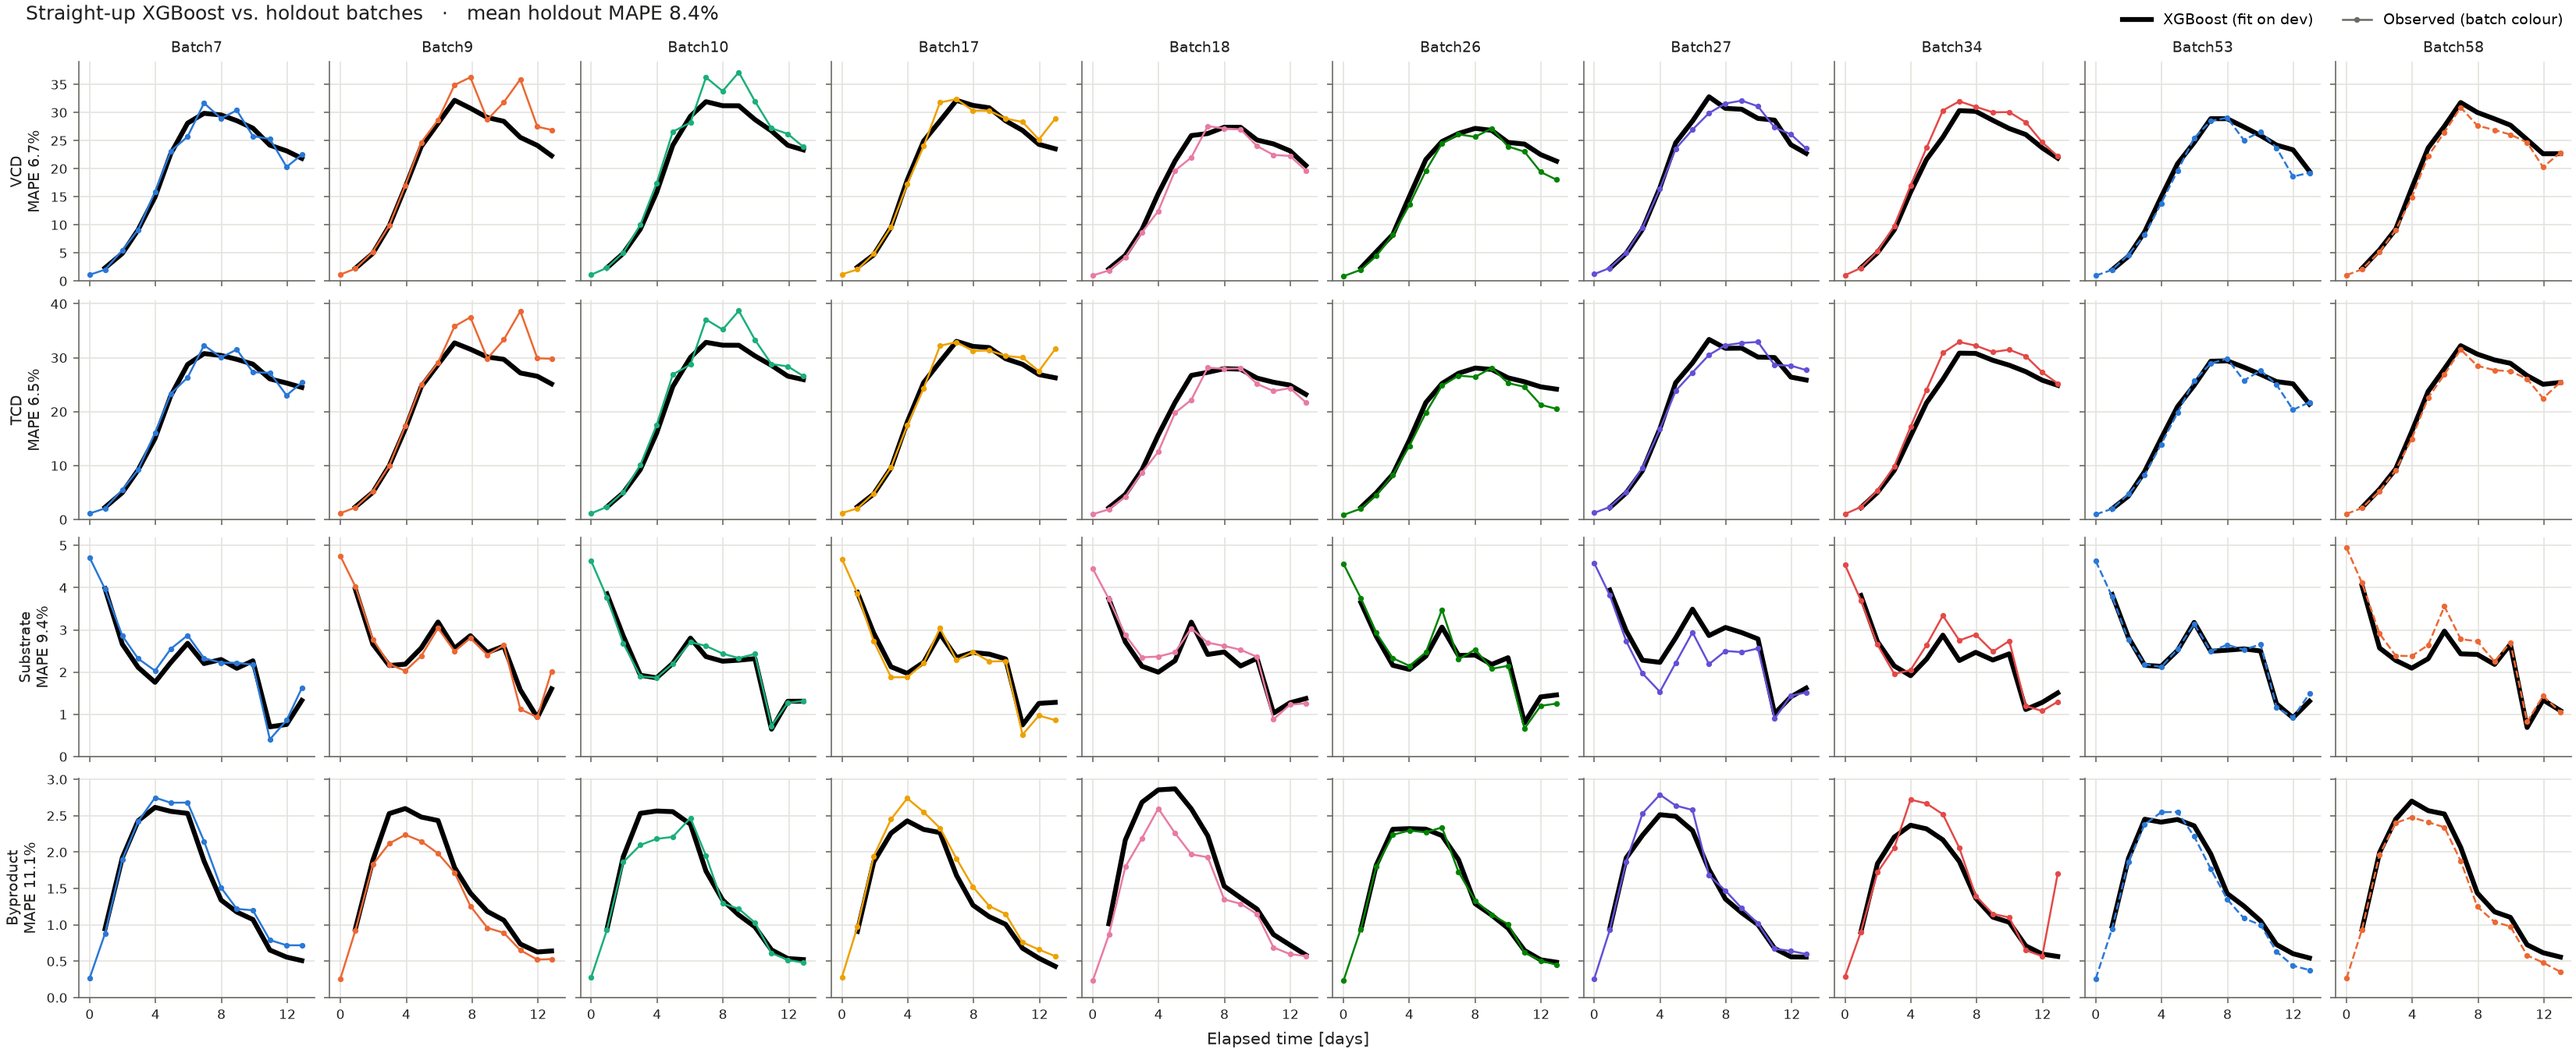
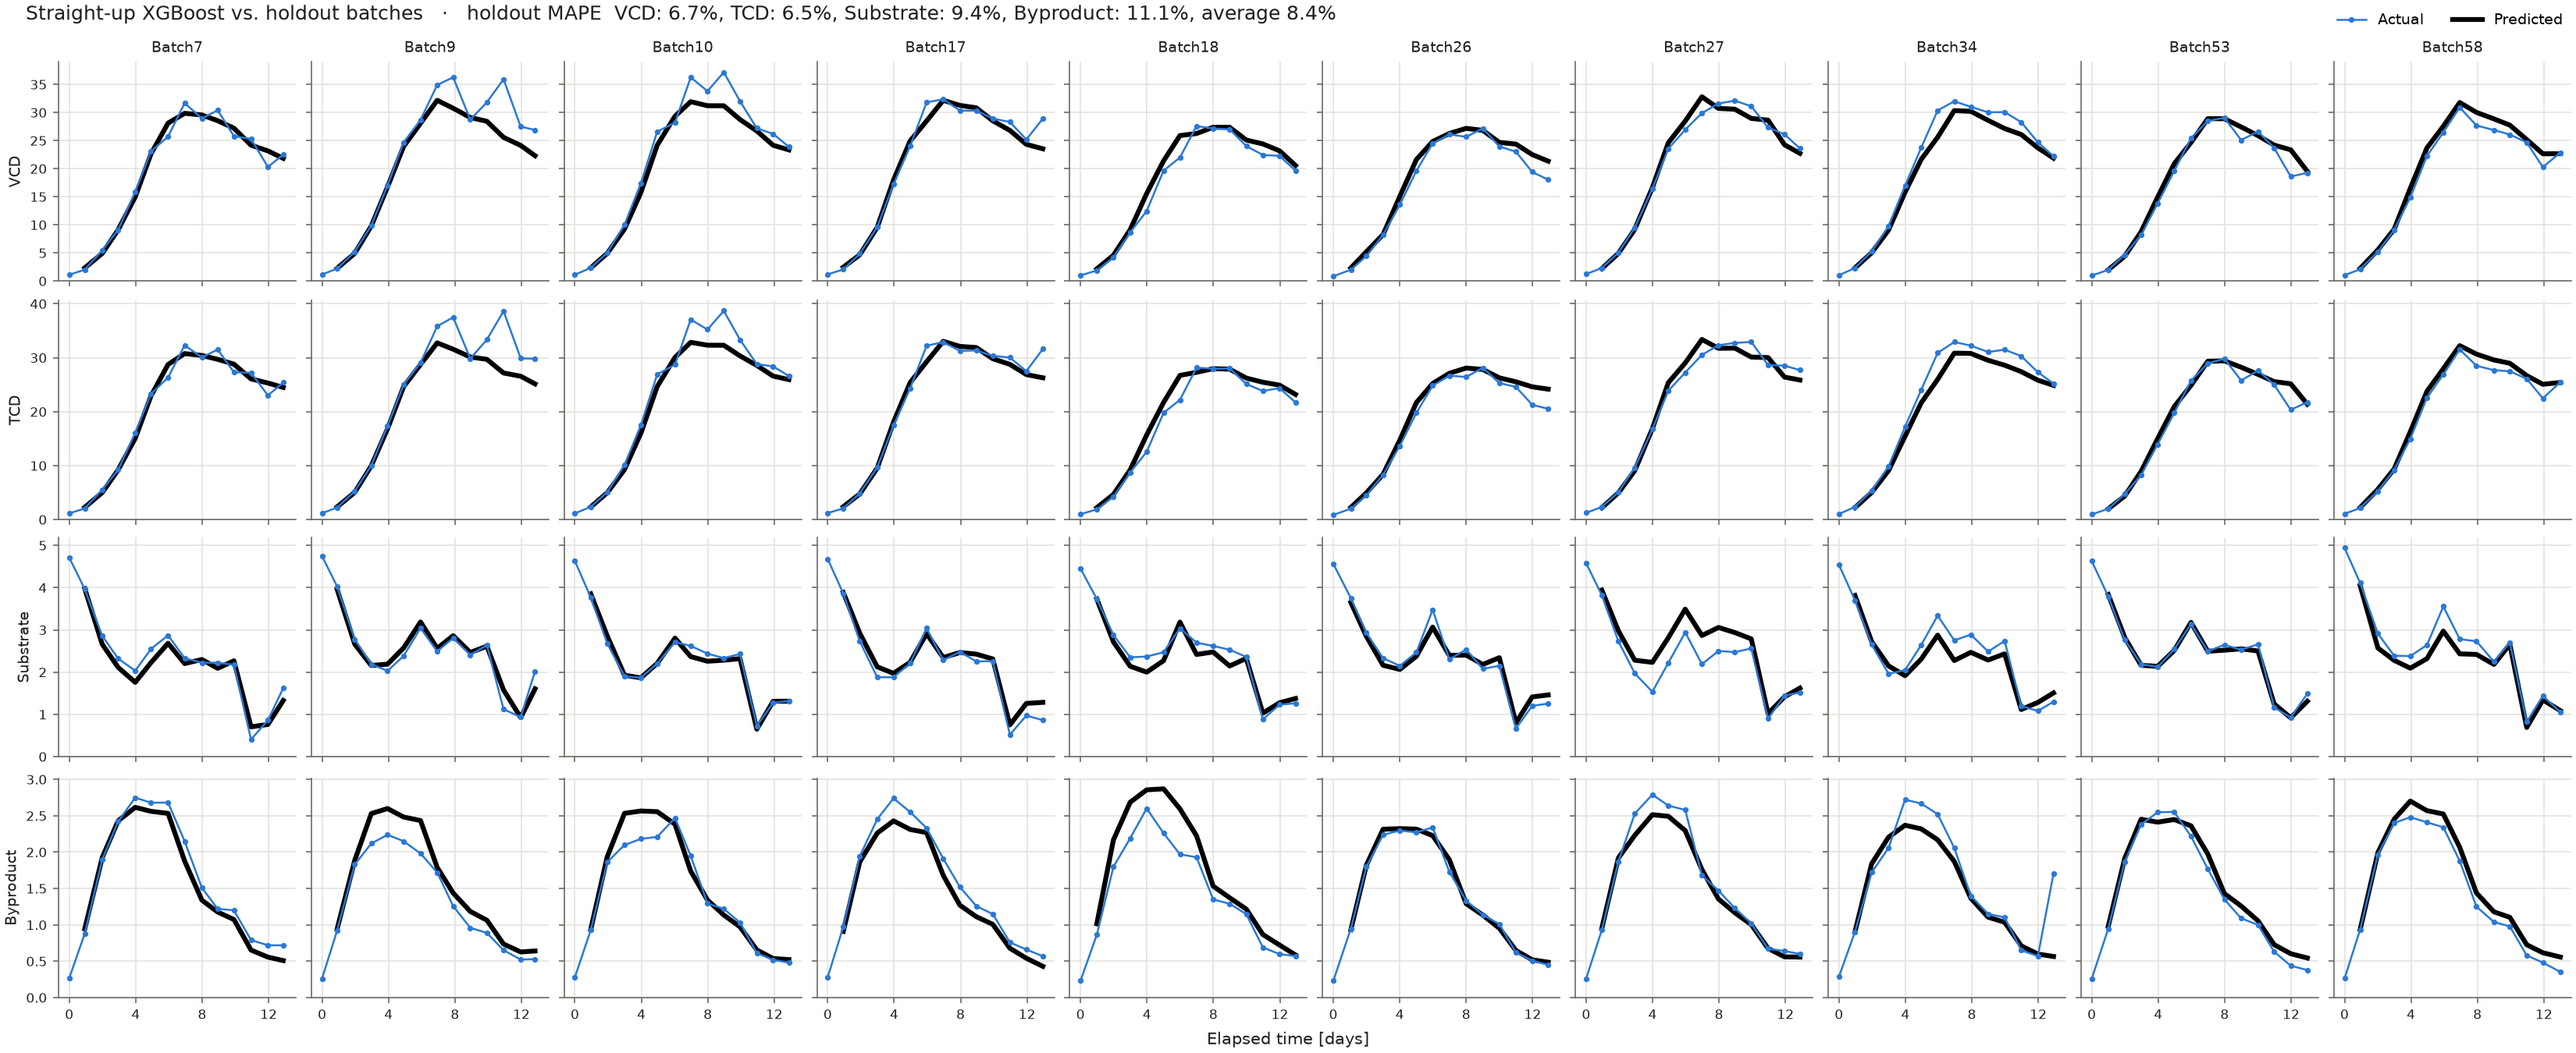
Unify holdout figures and enforce holdout isolation
- All holdout figures (constant null, per-day null, raw XGBoost) use the same
  per-batch grid: variables as rows (shared x), one column per holdout batch,
  actual in blue, predicted in black, legend "Actual" / "Predicted".
- Figure titles break the holdout MAPE down per variable
  (VCD, TCD, Substrate, Byproduct) plus the average.
- train.holdout_check(): single entry point that fits a fresh clone on dev
  batches only and scores on holdout; errors if a batch is in both.
- Test: for all models, replacing holdout labels changes no prediction, and
  shuffling holdout features only shuffles the predictions (never used to fit).

diff --git a/bioreactor_decoding/bioreactor_decoding/plots.py b/bioreactor_decoding/bioreactor_decoding/plots.py
@@ -1,4 +1,9 @@
-"""Holdout reality-check plots: observed holdout trajectories vs. a model fitted on dev only."""
+"""Holdout reality-check plots: actual holdout trajectories vs. a model fitted on dev only.
+
+Every figure is a grid of variables (rows, shared x axis) x holdout batches (columns): the
+actual measurements in blue, the model's prediction for that batch in black. Models are
+fitted via `holdout_check`, which uses dev batches only.
+"""
 
 from pathlib import Path
 
@@ -10,91 +15,18 @@ import typer
 
 from bioreactor_decoding.config import FIGURES_DIR
 from bioreactor_decoding.dataset import TARGETS, load_tables
-from bioreactor_decoding.modeling.models import (
-    ConstantNullModel,
-    PerDayNullModel,
-    challenge_score,
-)
-from bioreactor_decoding.modeling.train import labelled_data, make_xgb_raw
+from bioreactor_decoding.modeling.models import ConstantNullModel, PerDayNullModel
+from bioreactor_decoding.modeling.train import holdout_check, labelled_data, make_xgb_raw
 
 app = typer.Typer()
 
 LABELS = {"vcd": "VCD", "tcd": "TCD", "substrate": "Substrate", "byproduct": "Byproduct"}
-# Validated categorical palette (8 hues, fixed order). Batches beyond 8 reuse the hues with a
-# dashed line, so every batch keeps a unique (colour, line style) pair.
-SERIES = ["#2a78d6", "#eb6834", "#1baf7a", "#eda100", "#e87ba4", "#008300", "#6250d6", "#e34948"]
+ACTUAL, PREDICTED = "#2a78d6", "black"
 INK, INK_MUTED, GRID = "#1f1f1e", "#6b6a63", "#e4e3de"
 
 
-def batch_styles(batch_ids) -> dict[str, dict]:
-    ordered = sorted(batch_ids, key=lambda b: int("".join(filter(str.isdigit, b)) or 0))
-    return {
-        b: {"color": SERIES[i % len(SERIES)], "linestyle": "-" if i < len(SERIES) else "--"}
-        for i, b in enumerate(ordered)
-    }
-
-
-def plot_holdout(
-    observed: pd.DataFrame,
-    reference: pd.DataFrame,
-    reference_label: str,
-    scores: dict[str, float],
-    title: str,
-    step: bool = False,
-) -> plt.Figure:
-    """observed: batch_id, elapsed_time, TARGETS (holdout, incl. t = 0).
-    reference: elapsed_time, TARGETS - one model trajectory drawn as a thick black line;
-    with step=True each value is drawn as a step one day wide, centred on its time."""
-    styles = batch_styles(observed["batch_id"].unique())
-    fig, axes = plt.subplots(len(TARGETS), 1, sharex=True, figsize=(8, 10), layout="constrained")
-
-    for ax, c in zip(axes, TARGETS):
-        for b, style in styles.items():
-            g = observed[observed["batch_id"] == b].sort_values("elapsed_time")
-            ax.plot(g["elapsed_time"], g[c], lw=1.2, marker="o", ms=2.5, label=b, **style)
-        ref_style = {"color": "black", "lw": 3.5, "label": reference_label}
-        if step:
-            t = reference["elapsed_time"].to_numpy()
-            ax.stairs(reference[c], np.r_[t - 0.5, t[-1] + 0.5], baseline=None, **ref_style)
-        else:
-            ax.plot(reference["elapsed_time"], reference[c], **ref_style)
-        ax.set_ylabel(LABELS[c], color=INK)
-        ax.set_title(
-            f"{LABELS[c]}   ·   holdout MAPE {scores[c]:.1f}%",
-            loc="left",
-            fontsize=10,
-            color=INK,
-        )
-        ax.set_ylim(bottom=0)
-        ax.grid(True, color=GRID, lw=0.8)
-        ax.set_axisbelow(True)
-        for side in ("top", "right"):
-            ax.spines[side].set_visible(False)
-        for side in ("left", "bottom"):
-            ax.spines[side].set_color(INK_MUTED)
-        ax.tick_params(colors=INK_MUTED, labelcolor=INK)
-
-    axes[-1].set_xlabel("Elapsed time [days]", color=INK)
-    axes[-1].set_xlim(left=0)
-    handles, labels = axes[0].get_legend_handles_labels()
-    fig.legend(
-        handles,
-        labels,
-        loc="outside right center",
-        frameon=False,
-        fontsize=9,
-        title="Holdout batch",
-        title_fontsize=9,
-        labelcolor=INK,
-    )
-    fig.suptitle(
-        f"{title}   ·   mean holdout MAPE {scores['score']:.1f}%",
-        x=0.02,
-        ha="left",
-        fontsize=12,
-        color=INK,
-    )
-    return fig
+def _batch_number(batch_id: str) -> int:
+    return int("".join(filter(str.isdigit, batch_id)) or 0)
 
 
 def _style_axis(ax):
@@ -108,53 +40,55 @@ def _style_axis(ax):
 
 
 def plot_holdout_per_batch(
-    observed: pd.DataFrame,
+    actual: pd.DataFrame,
     predicted: pd.DataFrame,
-    model_label: str,
     scores: dict[str, float],
     title: str,
+    step: bool = False,
 ) -> plt.Figure:
-    """Grid of variables (rows, shared x) x holdout batches (columns).
+    """actual: batch_id, elapsed_time, TARGETS (incl. t = 0); predicted: same columns, t > 0.
 
-    For models whose prediction differs per batch: each cell shows that batch's observed series
-    (thin, batch colour) and the model's prediction for it (thick black).
-    observed: batch_id, elapsed_time, TARGETS (incl. t = 0); predicted: same columns, t > 0.
+    With step=True each prediction is drawn as a step one day wide, centred on its time.
     """
-    styles = batch_styles(observed["batch_id"].unique())
+    batches = sorted(actual["batch_id"].unique(), key=_batch_number)
     fig, axes = plt.subplots(
         len(TARGETS),
-        len(styles),
+        len(batches),
         sharex=True,
         sharey="row",
-        figsize=(2.1 * len(styles) + 1, 9),
+        figsize=(2.1 * len(batches) + 1, 9),
         layout="constrained",
         squeeze=False,
     )
-    for j, (b, style) in enumerate(styles.items()):
-        obs = observed[observed["batch_id"] == b].sort_values("elapsed_time")
+    for j, b in enumerate(batches):
+        act = actual[actual["batch_id"] == b].sort_values("elapsed_time")
         pred = predicted[predicted["batch_id"] == b].sort_values("elapsed_time")
         axes[0, j].set_title(b, fontsize=9, color=INK)
         for i, c in enumerate(TARGETS):
             ax = axes[i, j]
-            ax.plot(pred["elapsed_time"], pred[c], color="black", lw=3, label=model_label)
-            ax.plot(obs["elapsed_time"], obs[c], lw=1.2, marker="o", ms=2.5, label="Observed",
-                    **style)  # fmt: skip
+            if step:
+                t = pred["elapsed_time"].to_numpy()
+                edges = np.r_[t[0] - 0.5, (t[1:] + t[:-1]) / 2, t[-1] + 0.5]
+                ax.stairs(pred[c], edges, baseline=None, color=PREDICTED, lw=3)
+            else:
+                ax.plot(pred["elapsed_time"], pred[c], color=PREDICTED, lw=3)
+            ax.plot(act["elapsed_time"], act[c], color=ACTUAL, lw=1.2, marker="o", ms=2.5)
             _style_axis(ax)
     for i, c in enumerate(TARGETS):
         # set limits once per row, after everything is drawn, so no batch gets clipped
-        top = max(observed[c].max(), predicted[c].max())
+        top = max(actual[c].max(), predicted[c].max())
         axes[i, 0].set_ylim(0, 1.05 * top)
-        axes[i, 0].set_ylabel(f"{LABELS[c]}\nMAPE {scores[c]:.1f}%", color=INK, fontsize=9)
+        axes[i, 0].set_ylabel(LABELS[c], color=INK, fontsize=9)
     axes[-1, 0].set_xticks([0, 4, 8, 12])
     fig.supxlabel("Elapsed time [days]", color=INK, fontsize=10)
     handles = [
-        plt.Line2D([], [], color="black", lw=3, label=model_label),
-        plt.Line2D([], [], color=INK_MUTED, lw=1.2, marker="o", ms=2.5,
-                   label="Observed (batch colour)"),
-    ]  # fmt: skip
+        plt.Line2D([], [], color=ACTUAL, lw=1.2, marker="o", ms=2.5, label="Actual"),
+        plt.Line2D([], [], color=PREDICTED, lw=3, label="Predicted"),
+    ]
     fig.legend(handles=handles, loc="outside upper right", ncols=2, frameon=False, fontsize=9)
+    per_variable = ", ".join(f"{LABELS[c]}: {scores[c]:.1f}%" for c in TARGETS)
     fig.suptitle(
-        f"{title}   ·   mean holdout MAPE {scores['score']:.1f}%",
+        f"{title}   ·   holdout MAPE  {per_variable}, average {scores['score']:.1f}%",
         x=0.01,
         ha="left",
         fontsize=12,
@@ -163,40 +97,15 @@ def plot_holdout_per_batch(
     return fig
 
 
-@app.command()
-def xgb_raw(output_path: Path = FIGURES_DIR / "xgb_raw.png"):
-    """Straight-up XGBoost (raw features -> raw targets), fitted on dev, vs. holdout batches."""
+def holdout_figure(model, title: str, output_path: Path, step: bool = False):
+    """Fit `model` on dev batches only, predict the holdout batches, and plot the grid."""
     X, Y, split = labelled_data()
-    dev, holdout = split["role"] == "dev", split["role"] == "holdout"
-    model = make_xgb_raw().fit(X[dev], Y[dev])
-    pred = model.predict(X[holdout])
-    scores = challenge_score(Y[holdout], pred)
-    n_nonpos = int((pred <= 0).to_numpy().sum())
-    if n_nonpos:
-        logger.warning(f"{n_nonpos} non-positive holdout predictions")
-    pred[["batch_id", "elapsed_time"]] = split.loc[holdout, ["batch_id", "elapsed_time"]]
+    pred, scores = holdout_check(model, X, Y, split)
+    pred[["batch_id", "elapsed_time"]] = split.loc[pred.index, ["batch_id", "elapsed_time"]]
 
     samples, _ = load_tables()
-    observed = samples.loc[samples["role"] == "holdout", ["batch_id", "elapsed_time", *TARGETS]]
-    fig = plot_holdout_per_batch(
-        observed, pred, "XGBoost (fit on dev)", scores, "Straight-up XGBoost vs. holdout batches"
-    )
-    output_path.parent.mkdir(parents=True, exist_ok=True)
-    fig.savefig(output_path, dpi=150, facecolor="white")
-    plt.close(fig)
-    logger.success(f"XGBoost raw: holdout score {scores['score']:.1f}% -> {output_path}")
-
-
-def _null_figure(model, reference_fn, label: str, title: str, output_path: Path, step: bool):
-    """Fit `model` on dev, score it on holdout, and plot it against the holdout batches."""
-    X, Y, split = labelled_data()
-    dev, holdout = split["role"] == "dev", split["role"] == "holdout"
-    model.fit(X[dev], Y[dev])
-    scores = challenge_score(Y[holdout], model.predict(X[holdout]))
-
-    samples, _ = load_tables()
-    observed = samples.loc[samples["role"] == "holdout", ["batch_id", "elapsed_time", *TARGETS]]
-    fig = plot_holdout(observed, reference_fn(model, observed), label, scores, title, step)
+    actual = samples.loc[samples["role"] == "holdout", ["batch_id", "elapsed_time", *TARGETS]]
+    fig = plot_holdout_per_batch(actual, pred, scores, title, step)
     output_path.parent.mkdir(parents=True, exist_ok=True)
     fig.savefig(output_path, dpi=150, facecolor="white")
     plt.close(fig)
@@ -205,37 +114,22 @@ def _null_figure(model, reference_fn, label: str, title: str, output_path: Path,
 
 @app.command()
 def constant_null_model(output_path: Path = FIGURES_DIR / "null_model_constant.png"):
-    """Constant null model (per-variable mean over all times and dev batches) vs. holdout."""
-
-    def reference(model, observed):
-        t = np.array([0.0, observed["elapsed_time"].max()])
-        return pd.DataFrame({"elapsed_time": t, **{c: model.means_[c] for c in TARGETS}})
-
-    _null_figure(
-        ConstantNullModel(),
-        reference,
-        "Constant null model\n(mean of dev batches)",
-        "Constant null model vs. holdout batches",
-        output_path,
-        step=False,
-    )
+    """Constant null model (per-variable mean over all times and dev batches)."""
+    holdout_figure(ConstantNullModel(), "Constant null model vs. holdout batches", output_path)
 
 
 @app.command()
 def per_day_null_model(output_path: Path = FIGURES_DIR / "null_model_per_day.png"):
-    """Per-day null model (per-variable mean of each sampling day over dev batches) vs. holdout."""
-
-    def reference(model, observed):
-        return model.means_.rename_axis("elapsed_time").reset_index()
-
-    _null_figure(
-        PerDayNullModel(),
-        reference,
-        "Per-day null model\n(daily mean of dev batches)",
-        "Per-day null model vs. holdout batches",
-        output_path,
-        step=True,
+    """Per-day null model (per-variable mean of each sampling day over dev batches)."""
+    holdout_figure(
+        PerDayNullModel(), "Per-day null model vs. holdout batches", output_path, step=True
     )
+
+
+@app.command()
+def xgb_raw(output_path: Path = FIGURES_DIR / "xgb_raw.png"):
+    """Straight-up XGBoost (raw features -> raw targets)."""
+    holdout_figure(make_xgb_raw(), "Straight-up XGBoost vs. holdout batches", output_path)
 
 
 @app.command()

diff --git a/bioreactor_decoding/tests/test_data.py b/bioreactor_decoding/tests/test_data.py
@@ -6,6 +6,7 @@ from bioreactor_decoding.dataset import RAW_PATH, TARGETS, load_tables, load_tem
 from bioreactor_decoding.features import build_features, feature_columns
 from bioreactor_decoding.modeling.models import FoldChangeRegressor, MedianFoldChange, mape
 from bioreactor_decoding.modeling.predict import fill_template
+from bioreactor_decoding.modeling.train import MODELS, holdout_check, labelled_data
 
 pytestmark = pytest.mark.skipif(not RAW_PATH.exists(), reason="raw data not available")
 
@@ -80,3 +81,26 @@ def test_feature_columns_exclude_meta(tables):
     samples, feeds = tables
     cols = feature_columns(build_features(samples, feeds))
     assert "batch_id" not in cols and "elapsed_time" not in cols
+
+
+@pytest.mark.parametrize("model_name", ["null_constant", "null_per_day", "xgb_raw", "xgb"])
+def test_holdout_never_used_for_fitting(model_name):
+    """The model behind the holdout figures is fitted without any holdout data."""
+    X, Y, split = labelled_data()
+    model = MODELS[model_name]()
+    holdout = split["role"] == "holdout"
+    n = int(holdout.sum())
+    rng = np.random.default_rng(0)
+    pred, _ = holdout_check(model, X, Y, split)
+
+    # 1. Holdout labels never reach the model: replacing them changes no prediction.
+    Ys = Y.copy()
+    Ys.loc[holdout] = rng.random((n, Y.shape[1])) * 100
+    pd.testing.assert_frame_equal(holdout_check(model, X, Ys, split)[0], pred)
+
+    # 2. Holdout features are only used to predict their own row, never to fit:
+    #    shuffling them across holdout rows just shuffles the predictions.
+    perm = rng.permutation(n)
+    Xs = X.copy()
+    Xs.loc[holdout] = X.loc[holdout].to_numpy()[perm]
+    np.testing.assert_allclose(holdout_check(model, Xs, Y, split)[0].to_numpy(), pred.to_numpy()[perm])

diff --git a/bioreactor_decoding/bioreactor_decoding/modeling/train.py b/bioreactor_decoding/bioreactor_decoding/modeling/train.py
@@ -95,6 +95,20 @@ def cross_validate(models: dict, X, Y, split) -> pd.DataFrame:
     return pd.DataFrame(rows)
 
 
+def holdout_check(model, X, Y, split) -> tuple[pd.DataFrame, dict[str, float]]:
+    """Fit a fresh clone of `model` on dev batches only and score it on the holdout batches.
+
+    The model never sees holdout rows (features or labels): it is fitted on the dev rows
+    alone, and features are built per batch with no cross-batch statistics.
+    """
+    dev, holdout = split["role"] == "dev", split["role"] == "holdout"
+    if set(split.loc[dev, "batch_id"]) & set(split.loc[holdout, "batch_id"]):
+        raise ValueError("A batch is in both dev and holdout")
+    fitted = clone(model).fit(X[dev], Y[dev])
+    pred = fitted.predict(X[holdout])
+    return pred, challenge_score(Y[holdout], pred)
+
+
 @app.command()
 def main(
     model: str = "xgb",
